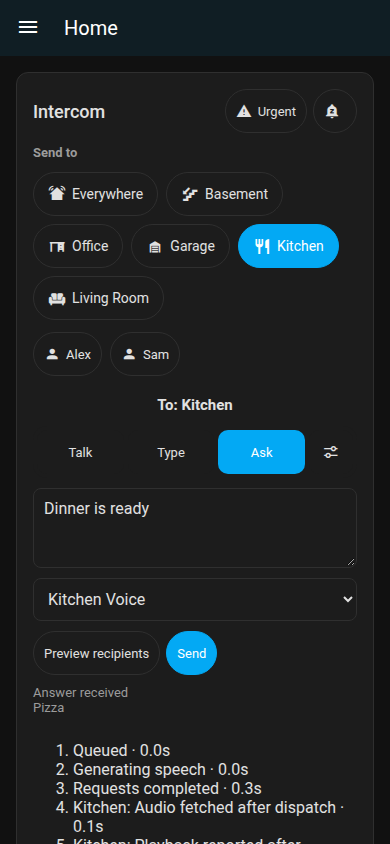
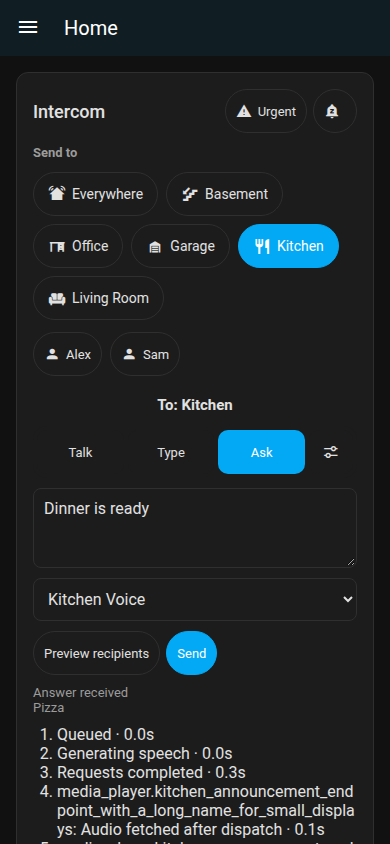
fix(timeline): wrap long speaker names

Changed region(s): [[0.0923, 0.8626, 0.9231, 1.0]]

diff --git a/scripts/ha_card_harness.html b/scripts/ha_card_harness.html
@@ -175,7 +175,7 @@
         if (body.operation === "preview") return {ok:true,endpoints:ROOMS.filter((r) => request.areas?.includes("all") || request.areas?.includes(r.area_id)).map((r) => `media_player.${r.area_id}`)};
         if (["send","ask","sound_test"].includes(body.operation)) {
           const id=crypto.randomUUID();
-          const job={ok:true,id,progress:[{stage:"queued",elapsed_ms:0},{stage:"synthesizing",elapsed_ms:40},{stage:"completed",elapsed_ms:250}],result:{evidence:{"media_player.kitchen":{audio_fetched_ms:100,playback_reported_ms:200}},failed:{}},state:body.operation==="ask"?"answered":"completed",responses:body.operation==="ask"?[{sentence:"Pizza"}]:[]};
+          const job={ok:true,id,progress:[{stage:"queued",elapsed_ms:0},{stage:"synthesizing",elapsed_ms:40},{stage:"completed",elapsed_ms:250}],result:{evidence:{"media_player.kitchen_announcement_endpoint_with_a_long_name_for_small_displays":{audio_fetched_ms:100,playback_reported_ms:200}},failed:{}},state:body.operation==="ask"?"answered":"completed",responses:body.operation==="ask"?[{sentence:"Pizza"}]:[]};
           jobs.set(id,{...job,speaker:request.speaker});
           return job;
         }

diff --git a/custom_components/roomcall/frontend/roomcall-controls.js b/custom_components/roomcall/frontend/roomcall-controls.js
@@ -21,6 +21,7 @@ export class RoomCallControls {
       .communication .setup-content { display:grid; gap:8px; padding-top:8px }
       .communication .test-row { display:flex; align-items:center; flex-wrap:wrap; gap:6px }
       .communication .result,.communication .settings-result { overflow-wrap:anywhere; white-space:pre-wrap }
+      .communication ol { min-width:0; margin:0; padding-inline-start:24px; overflow-wrap:anywhere; }
       .communication button { min-height:44px; min-width:44px }
       .communication button:disabled { opacity:.5; cursor:not-allowed }
       .communication nav[data-toolbar] { display:grid; grid-template-columns:repeat(3,minmax(0,1fr)) 44px; gap:4px;

diff --git a/scripts/qa_communication.py b/scripts/qa_communication.py
@@ -288,7 +288,7 @@ def main() -> None:
         check_task_added_later(browser, errors)
         check_doorbell(browser, errors)
         check_doorbell_changes(browser, errors)
-        for width, height in [(390, 844), (1280, 900)]:
+        for width, height in [(240, 800), (390, 844), (1280, 900)]:
             context = browser.new_context(viewport={"width": width, "height": height})
             context.grant_permissions(["microphone"], origin=ORIGIN)
             page = context.new_page()
